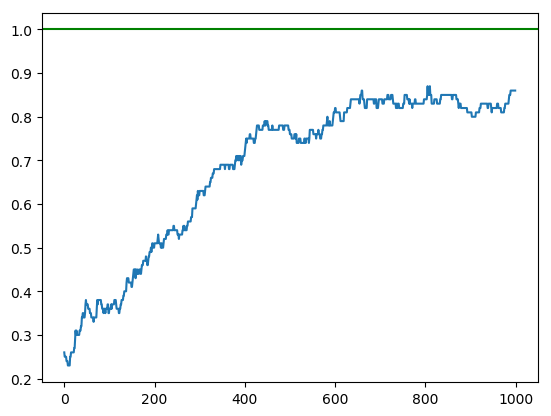
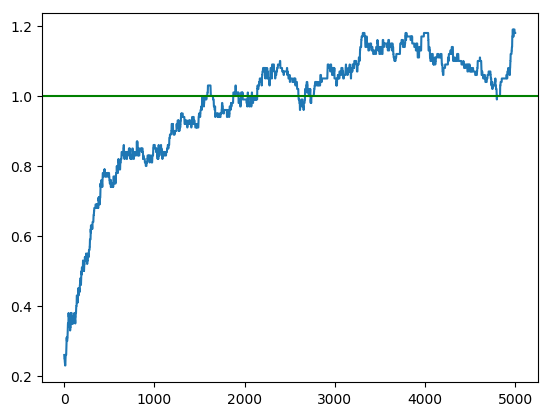
burnin gif

diff --git a/animations.py b/animations.py
@@ -157,7 +157,7 @@ grid_est_beta = grid.copy()
 mat = ax.matshow(grid_est_beta)
 # plt.show(mat)
 ani = animation.FuncAnimation(fig, update, data_gen, interval=10, repeat = True, repeat_delay = 500,
-                              save_count=1000)
+                              save_count=500)
 # plt.show()
 
 ani.save('plots/grid_missing_burnin.gif', dpi=200, writer='imagemagick')
@@ -174,7 +174,7 @@ for i in range(1000):
 
 # plot grid working with missing values
 ani = animation.FuncAnimation(fig, update, data_gen, interval=10, repeat_delay = 500,
-                              save_count=1000)
+                              save_count=500)
 # plt.show()
 
 ani.save('plots/grid_missing_equilibrium.gif', dpi=200, writer='imagemagick')
@@ -207,7 +207,7 @@ for i in range(500):
 mat = ax.matshow(grid_beta)
 # plt.show(mat)
 ani = animation.FuncAnimation(fig, update, data_gen, interval=10, repeat = True, repeat_delay = 500,
-                              save_count=1000)
+                              save_count=500)
 # plt.show()
 
 ani.save('plots/grid_SW_equilibrium.gif', dpi=200, writer='imagemagick')

diff --git a/potts_SW_missing.py b/potts_SW_missing.py
@@ -175,7 +175,7 @@ plt.matshow(A=grid_true_beta, cmap = cMap, vmin=0, vmax=n_states)
 # then fills missing values using estimated beta
 grid_est_beta = grid.copy()
 # beta_path = [0.5]
-B = 5000
+B = 10000
 beta_path = np.zeros((B))
 # longer burn in needed
 for i in range(B):
